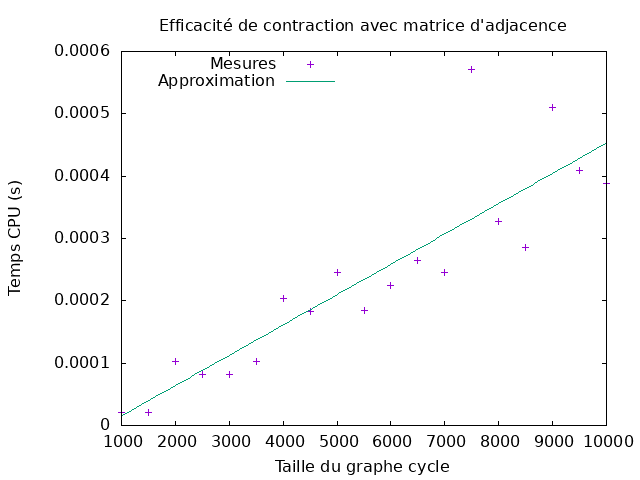
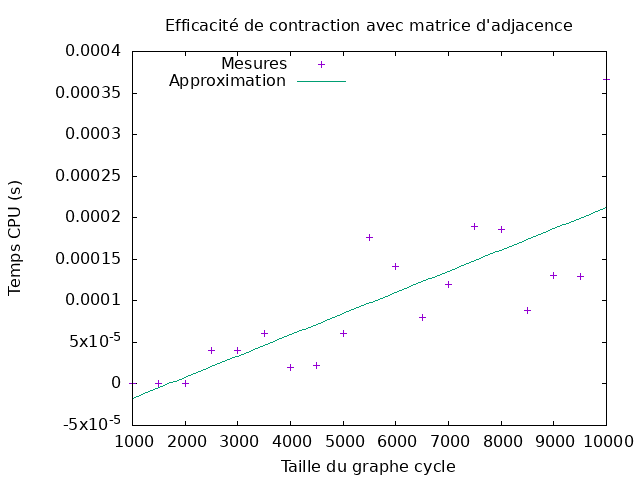
oui

diff --git a/source/graphes.py b/source/graphes.py
@@ -13,12 +13,11 @@ class Multigraphe:
         return np.array2string(self.mat) + "\n" + str(self.s)
 
     def contraction(self,u,v):
-        self.mat[u,v] = 0
         self.mat[u] += self.mat[v]
-        self.mat[v] = np.zeros(len(self.mat),dtype='int32')
         self.mat[:,u] = self.mat[u]
+        self.mat[v] = np.zeros(len(self.mat),dtype='int32')
         self.mat[:,v] = self.mat[v]
-        self.mat[u,v] = 0
+        self.mat[u,u] = 0
         self.s[u].update(self.s[v]) # Nouveau nom du sommet
         self.s[v] = {}
 
